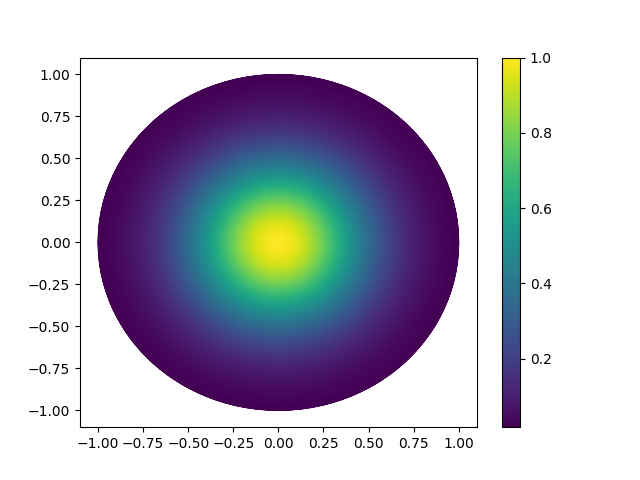
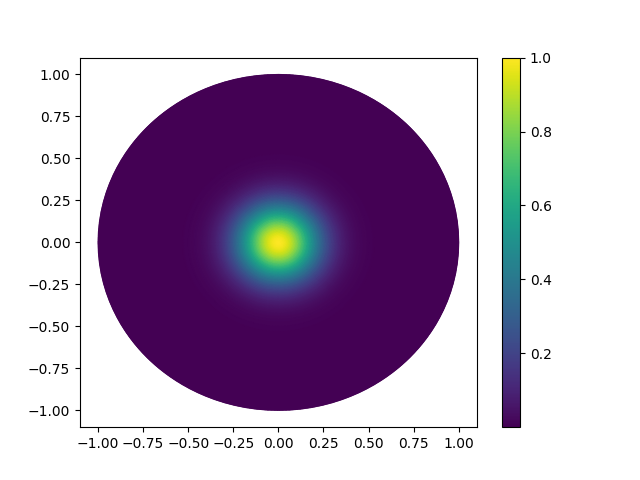
update

diff --git a/Ex3_square_all_snowflake/disk_diri.py b/Ex3_square_all_snowflake/disk_diri.py
@@ -3,12 +3,11 @@
 #   -\Delta u =f in Omega
 # with u = 0 on boundary
 # Omega is unit disk
-# f: equal to 1 on [1/3,2/3]x[1/3,2/3] and equal to 0 elsewhere
-# or
-# f = exp(-4(x^2+y^2))
+# f = exp(-20(x^2+y^2))
 # We will evaluate the solution at (0,1-(1/2)^i), 0 <= i <= n_max
 import matplotlib.pyplot as plt
 from firedrake.petsc import PETSc
+from scipy import stats
 deg=int(input("Enter the degree of polynomial in FEM space:"))
 import numpy as np
 from firedrake import *
@@ -20,7 +19,7 @@ n_max=10
 # max of refinement
 n_ref=5
 # threshold of refinement for relative error 
-val_thr=10**(-2)
+val_thr=10**(-3)
 def PDE_solver(mesh, f,g,V):
     # Test and trial functions
     u = TrialFunction(V)
@@ -41,22 +40,27 @@ pp=[[0,1-(1/2.)**i] for i in range(0,n_max)]
 x_list=[(1/2.)**i for i in range(0,n_max)]
 err=1
 it=0
-uu0=np.ones(n_max)
+V = FunctionSpace(mesh, "Lagrange", deg)
+uh0=Function(V)
+x, y = SpatialCoordinate(mesh)
+uh0.interpolate(x)
+
 while err>val_thr and it <n_ref:
    MH = MeshHierarchy(mesh, 1)
    mesh=MH[1]
    x, y = SpatialCoordinate(mesh)
    V = FunctionSpace(mesh, "Lagrange", deg)
-   #f=conditional(And(And(And(1./3.<x,x<2./3.),1./3.<y),y<2./3.),1,0)
-   f=exp(-4*((x)**2+(y)**2))
+   f=exp(-20*((x)**2+(y)**2))
    g=0.0
    uh = PDE_solver(mesh, f,g,V)
-   uu = np.array(uh.at(pp))
-   err=np.linalg.norm((uu-uu0)/uu0,np.inf)
-   uu0=uu
+   uh0_c=Function(V)
+   prolong(uh0,uh0_c)
+   err=sqrt(assemble(dot(uh-uh0_c,uh-uh0_c)*dx))/sqrt(assemble(dot(uh,uh)*dx))
+   uh0=uh
    it=it+1
  
-if it == n_ref:
+ 
+if it == n_ref+1:
    PETSc.Sys.Print("maximum number of refinement is reached")
 
 # plot f
@@ -76,22 +80,20 @@ plt.savefig(f"figures/solution_disk.png")
 PETSc.Sys.Print(f"The plot of solution is saved to figures/solution_disk.png")
 
 uu=uh.at(pp)
+# fitting log uu=log c+alpha log dx, 
+x_list_log=np.log(x_list)
+uu_log=np.log(uu)
+res = stats.linregress(x_list_log, uu_log)
+c=exp(res.intercept)
+alpha=res.slope
+alpha=round(alpha,5)
+tt=c*(x_list)**alpha
 plt.figure()
-plt.plot(x_list,uu,marker='o')
+plt.loglog(x_list,uu,'b.')
+plt.loglog(x_list,tt)
 plt.ylabel('evaluation of solution')
 plt.xlabel('distance to boundary')
-plt.savefig(f"figures/evaluate_disk.png")
-plt.close()
-PETSc.Sys.Print(f"plot of evaluation of solution is saved in figures/evaluate_disk.png.")
-
-tt=x_list
-tt=np.array([(x_list[i]/x_list[2])*uu[2] for i in range(0,len(uu))])
-plt.figure()
-plt.loglog(x_list,uu,marker='o')
-plt.loglog(x_list,tt,marker='v')
-plt.ylabel('evaluation of solution')
-plt.xlabel('distance to boundary')
-plt.legend(['value of solution','$dist^{1}$'])
+plt.legend(['value of solution','${%s}(dx)^{{%s}}$' % (round(c,5),alpha)])
 plt.savefig(f"figures/evaluate_disk_log.png")
 plt.close()
 PETSc.Sys.Print(f"plot of evaluation of solution in loglog is saved in figures/evaluate_disk_log.png.")

diff --git a/Ex3_square_all_snowflake/square_solver.py b/Ex3_square_all_snowflake/square_solver.py
@@ -2,9 +2,9 @@
 # Solve
 #   -\Delta u =f in Omega
 # with u = 0 on boundary
-# f: equal to 1 on [1/3,2/3]x[1/3,2/3] and equal to 0 elsewhere
+# f = exp(-20((x-0.5)^2+(x-0.5)^2))
 #
-# In this example, we would like to evaluate the solution at center of small squares.
+# In this example, we would like to evaluate the solution along a random path of center of small squares.
 #
 import matplotlib.pyplot as plt
 from firedrake.petsc import PETSc
@@ -20,9 +20,9 @@ from firedrake import *
 mesh_file = f'domain/koch_{n}.msh'
 mesh = Mesh(mesh_file)
 # max of refinement
-n_ref=5
+n_ref=3
 # threshold for refinement in relative error
-val_thr=0.05
+val_thr=0.01
 def snowsolver(mesh, f,g,V):
     # V = FunctionSpace(mesh, "Lagrange", 1)
     # Test and trial functions
@@ -44,23 +44,26 @@ pp=[[0.5,3/2-(1/3.)**i] for i in range(0,n+1)]
 x_list=[(1/3.)**i for i in range(0,n+1)]
 err=1
 it=0
-uu0=np.ones(n+1)
+V = FunctionSpace(mesh, "Lagrange", deg)
+uh0=Function(V)
+x, y = SpatialCoordinate(mesh)
+uh0.interpolate(x)
 
 while err>val_thr and it<n_ref:
    MH = MeshHierarchy(mesh, 1)
    mesh=MH[1]
    x, y = SpatialCoordinate(mesh)
    V = FunctionSpace(mesh, "Lagrange", deg)
-   #f=conditional(And(And(And(1./3.<x,x<2./3.),1./3.<y),y<2./3.),1,0)
-   f=exp(-4*((x-0.5)**2+(y-0.5)**2))
+   f=exp(-20*((x-0.5)**2+(y-0.5)**2))
    g=0.0
    uh = snowsolver(mesh, f,g,V)
-   uu = np.array(uh.at(pp))
-   err=np.linalg.norm((uu-uu0)/uu0,np.inf)
-   uu0=uu
+   uh0_c=Function(V)
+   prolong(uh0,uh0_c)
+   err=sqrt(assemble(dot(uh-uh0_c,uh-uh0_c)*dx))/sqrt(assemble(dot(uh,uh)*dx))
+   uh0=uh
    it=it+1
 
-if it == n_ref:
+if it == n_ref+1:
    PETSc.Sys.Print("maximum number of refinement is reached")
 else:
    PETSc.Sys.Print(f"Refined {it} times.")
@@ -85,6 +88,7 @@ mesh.name="msh"
 with CheckpointFile(f"solutions/solution_{n}.h5",'w') as afile:
   afile.save_mesh(mesh)
   afile.save_function(uh)
+PETSc.Sys.Print(f"The mesh and solution is saved to solutions/solution_{n}.h5")
 
 uu=uh.at(pp)
 plt.figure()
